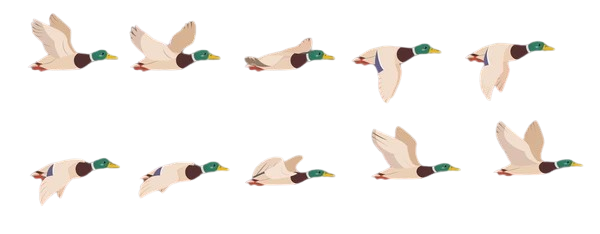
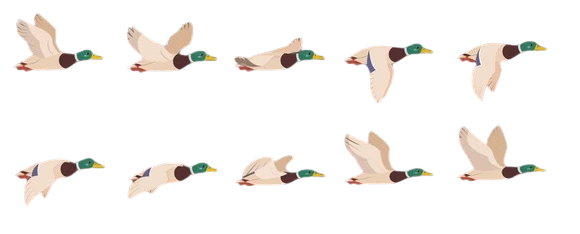
eendwerkt

diff --git a/src/js/bird.js b/src/js/bird.js
@@ -1,4 +1,4 @@
-import { Actor, Vector, Shape, CollisionType, Color, Random, SpriteSheet,range,Animation} from "excalibur";
+import { Actor, Vector, Shape, CollisionType, Color, Random, SpriteSheet, range, Animation } from "excalibur";
 import { Resources } from "./resources";
 import { Player } from "./player";
 import { mathFunction } from "./mathFunctions";
@@ -14,10 +14,10 @@ export class Bird extends Actor {
 
         const runSheet = SpriteSheet.fromImageSource({
             image: Resources.Duck,
-            grid: { rows: 2, columns: 5, spriteWidth: 120, spriteHeight: 117 }
+            grid: { rows: 2, columns: 5, spriteWidth: 114, spriteHeight: 117 }
         })
 
-        const fly = Animation.fromSpriteSheet(runSheet, range(0, 8), 100)
+        const fly = Animation.fromSpriteSheet(runSheet, range(0, 8), 80)
 
         this.graphics.add("fly", fly)
         this.graphics.use('fly')
